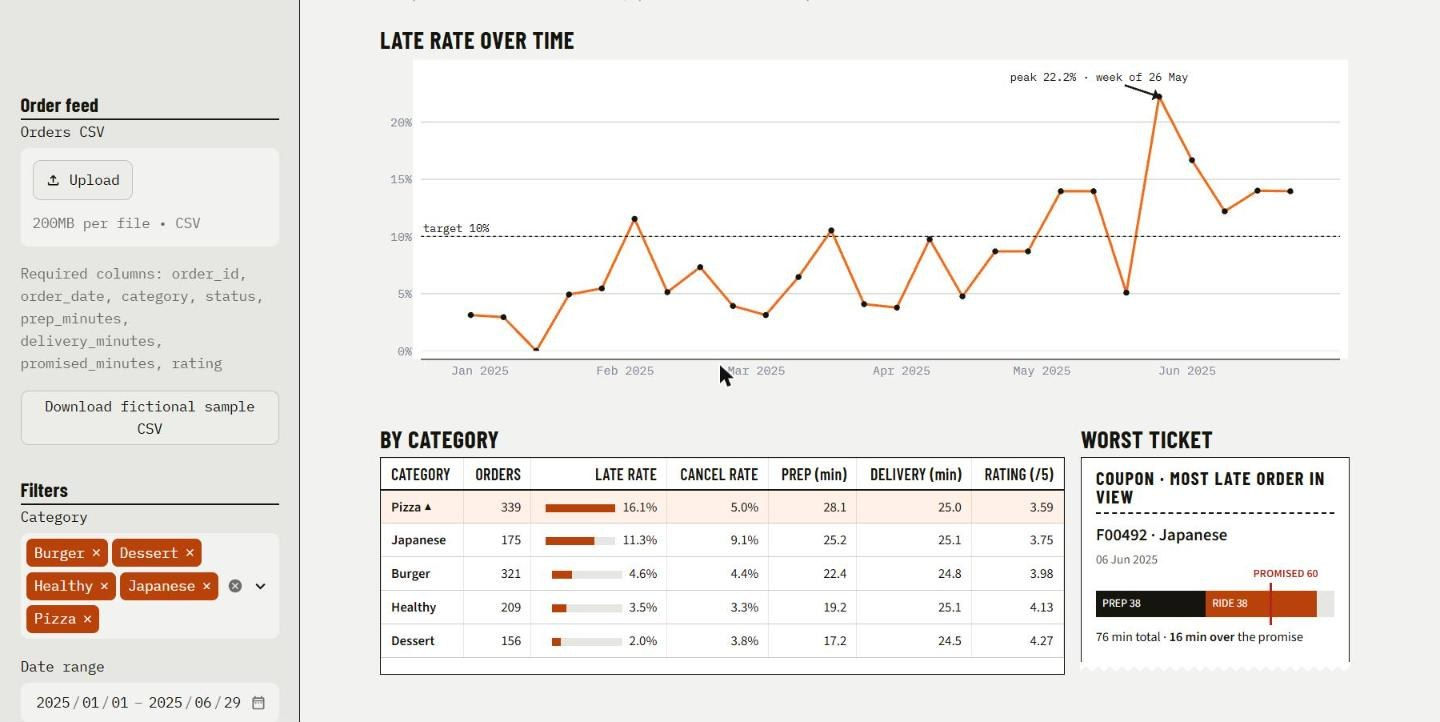
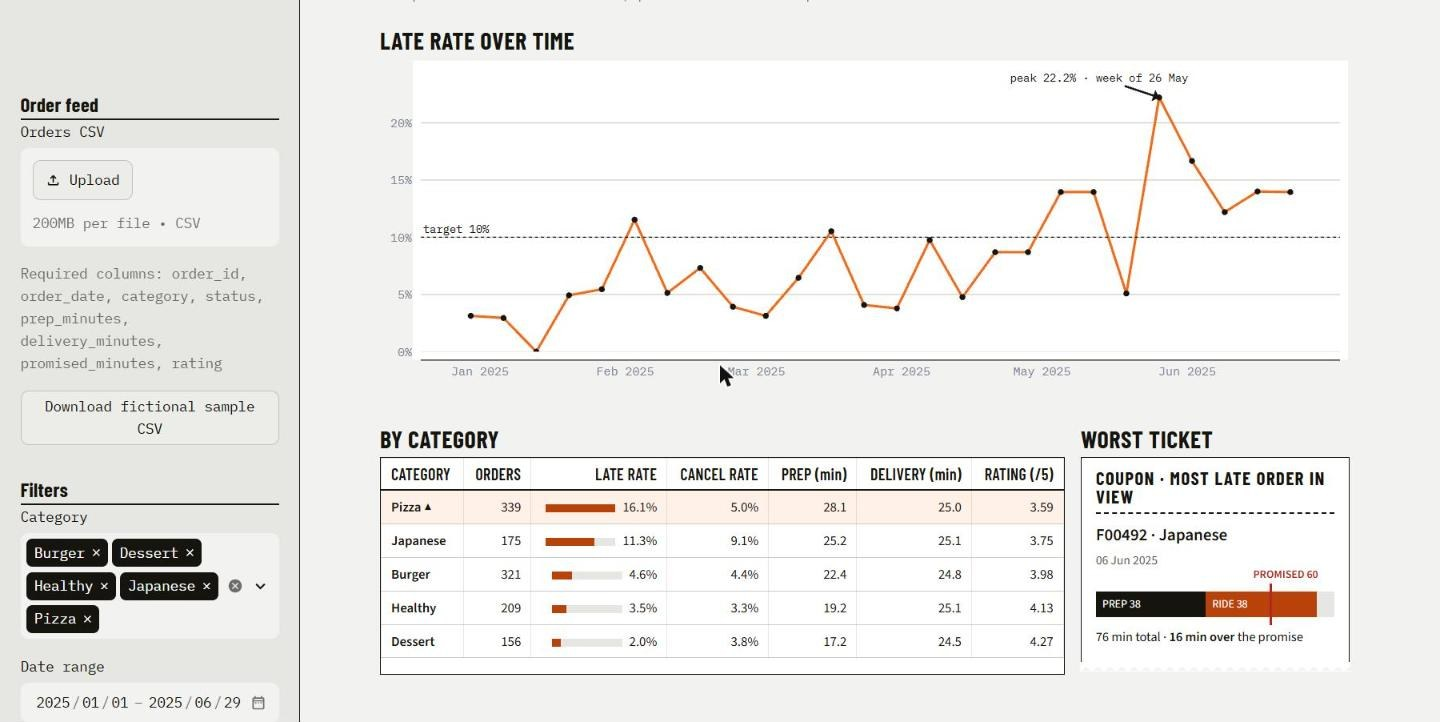
Neutral filter chips and refreshed screenshots

diff --git a/assets/style.css b/assets/style.css
@@ -101,7 +101,3 @@ svg.spark{display:block;flex:none}
   .kpi-num{font-size:1.6rem}
 }
 @media (prefers-reduced-motion:reduce){*{animation:none!important;transition:none!important}}
-
-/* multiselect chips: neutral ink so the orange stays reserved for the data */
-[data-baseweb="tag"]{background:var(--ink)!important}
-[data-baseweb="tag"] span{color:#fff!important}
